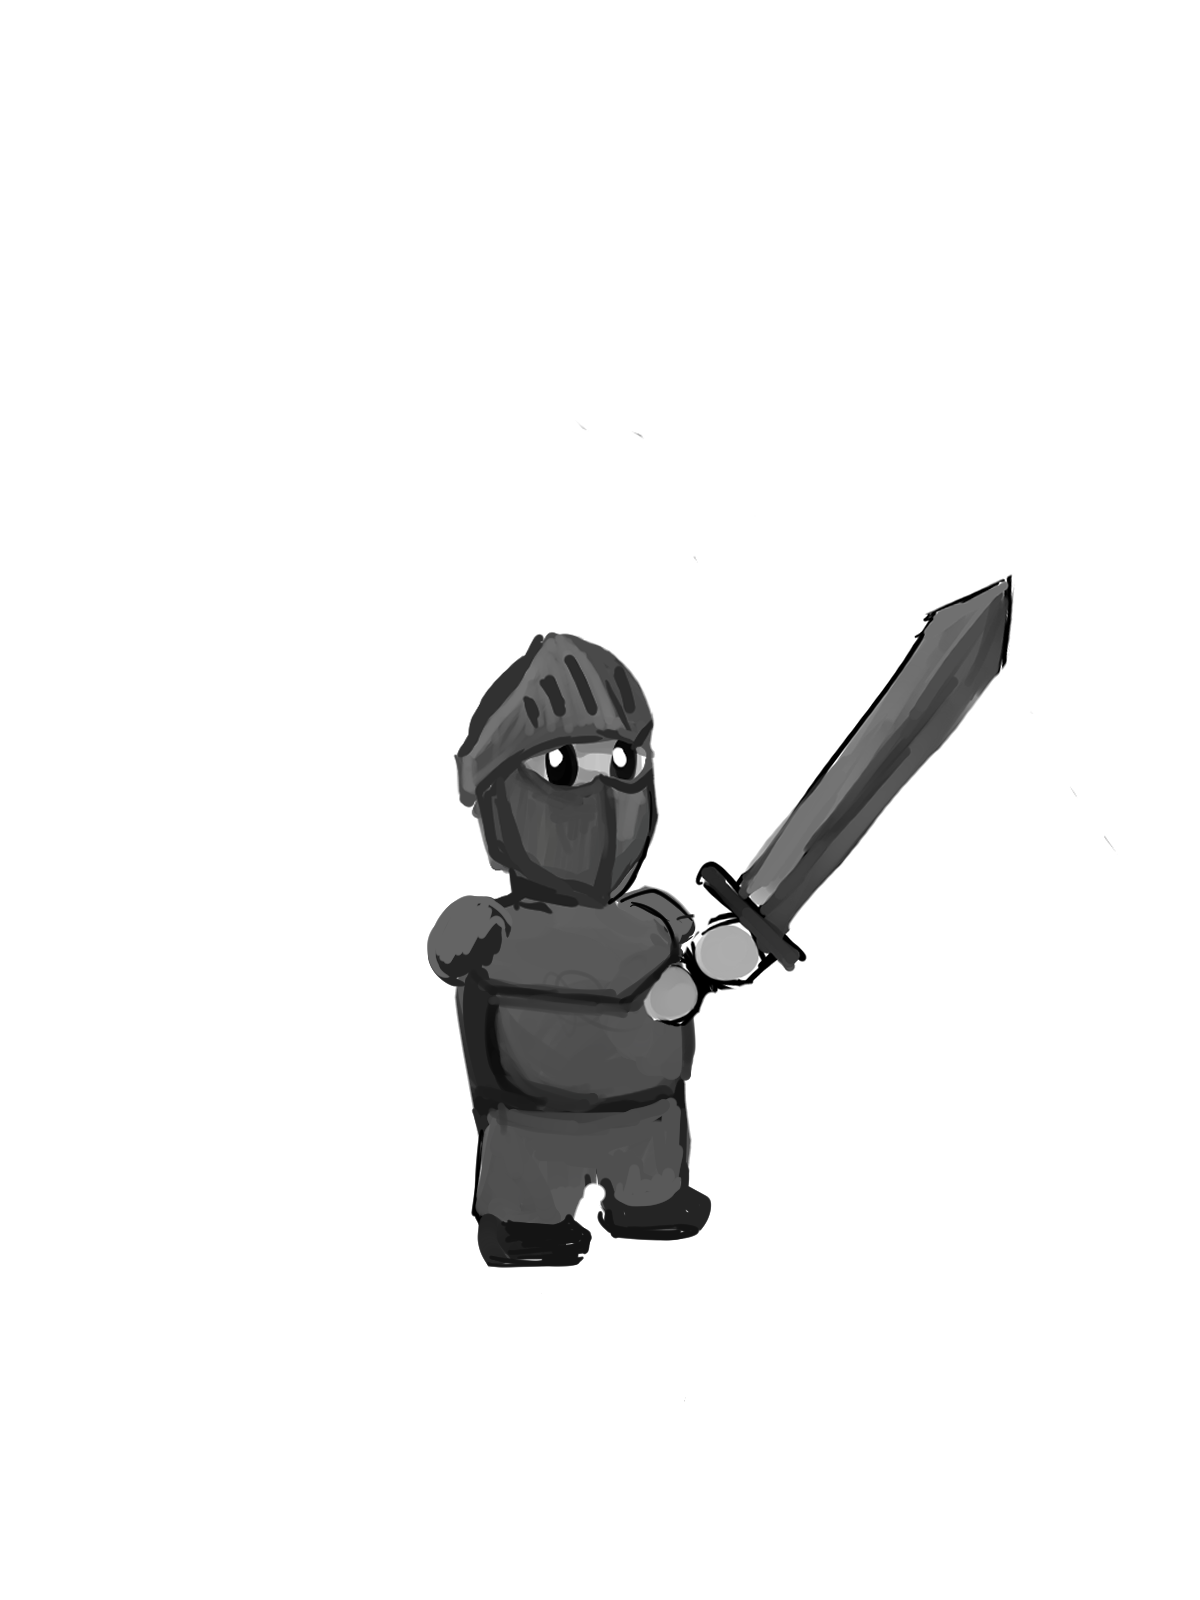
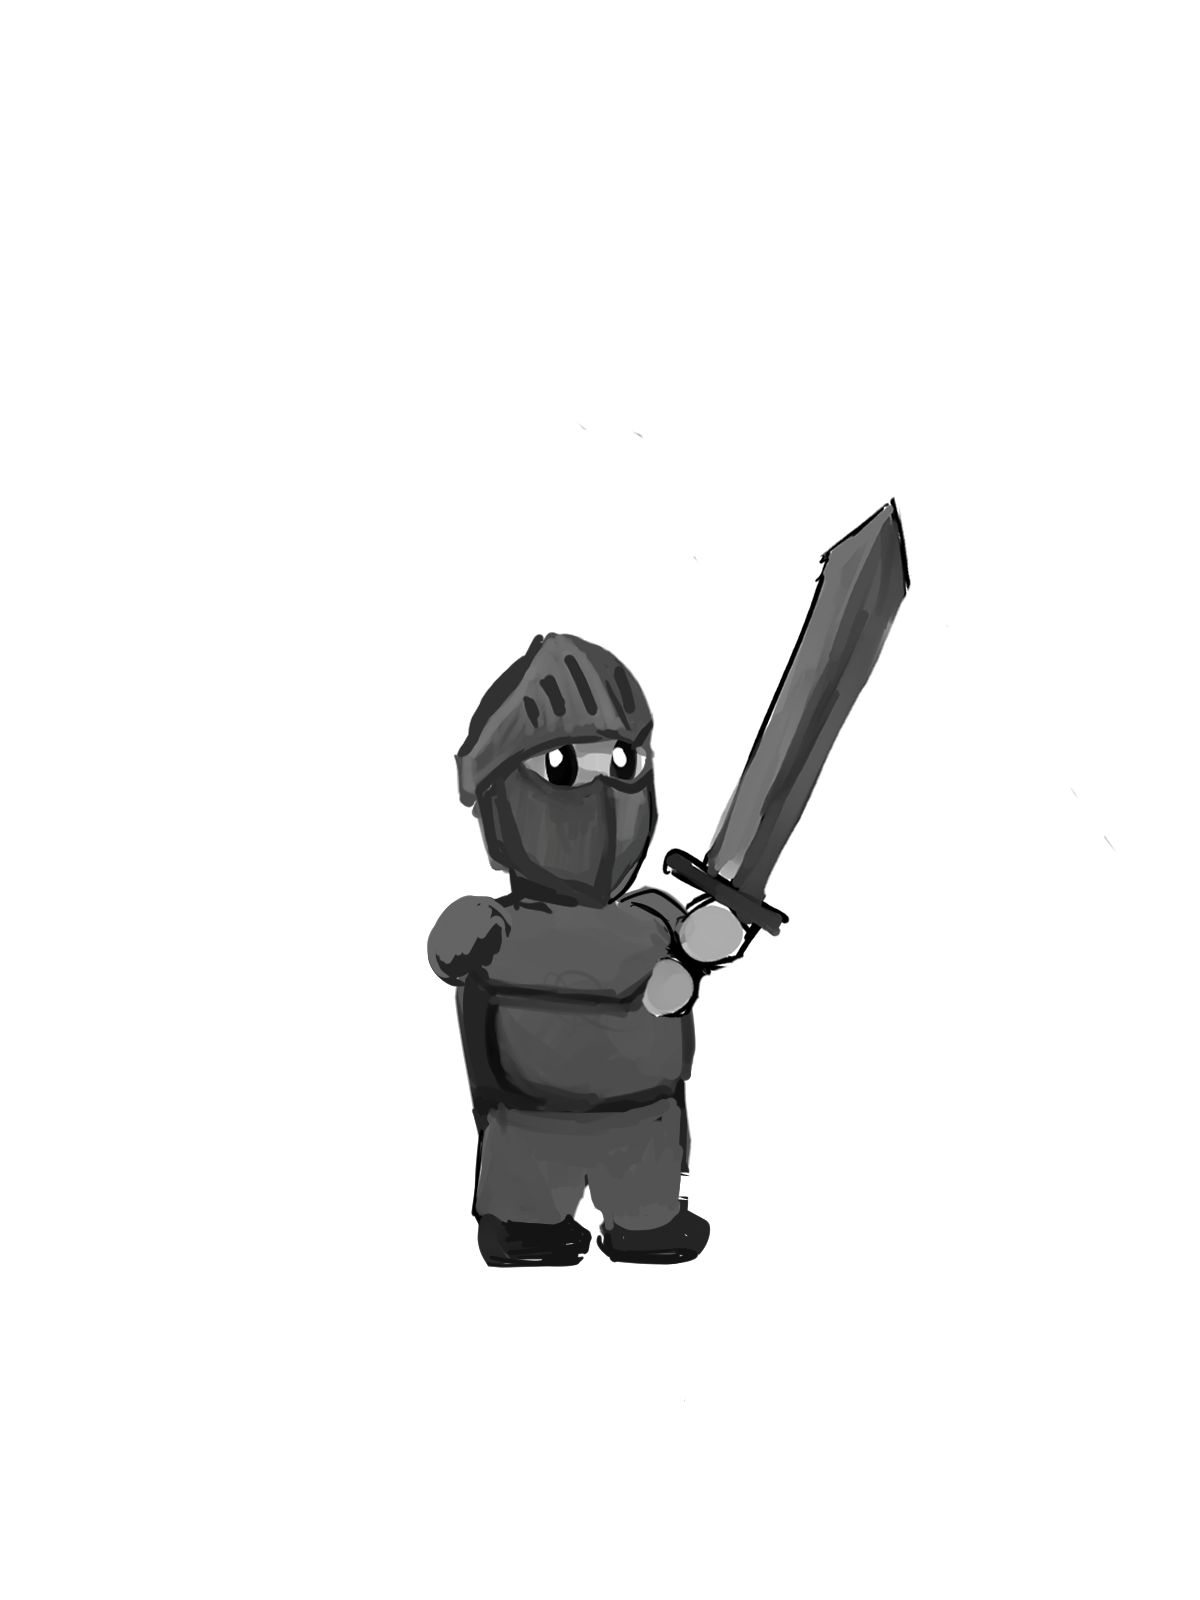
Sprite Update/ Atk input
Spirte Update
Atk Input and Anim

Changed region(s): [[0.5242, 0.3125, 0.8633, 0.6562], [0.4933, 0.7188, 0.6167, 0.8125]]

diff --git a/src/Main.cpp b/src/Main.cpp
@@ -1,62 +1,161 @@
 # include <Siv3D.hpp> // Siv3D v0.6.14
 
-using App = SceneManager<String>;
-
-
-class Title : public App::Scene {
-	
-};
-
-
 void Main()
 {
+	// 背景の色を設定する | Set the background color
 	Scene::SetBackground(ColorF{ 0.6, 0.8, 0.7 });
 
-	double time;
+	// 画像ファイルからテクスチャを作成する | Create a texture from an image file
+	const Texture kingTexture{ U"Assets/king.png" };
+	const Texture knightTexture{ U"Assets/knight.png"};
+	const Texture knightAtkTexture{ U"Assets/knightAtk.png"};
 
-
+	// 絵文字からテクスチャを作成する | Create a texture from an emoji
 	const Texture emoji{ U"🦖"_emoji };
 
-	double speed = 200.0;
+	// 太文字のフォントを作成する | Create a bold font with MSDF method
+	const Font font{ FontMethod::MSDF, 48, Typeface::Bold };
+
+	// テキストに含まれる絵文字のためのフォントを作成し、font に追加する | Create a font for emojis in text and add it to font as a fallback
+	const Font emojiFont{ 48, Typeface::ColorEmoji };
+	font.addFallback(emojiFont);
+
+	// ボタンを押した回数 | Number of button presses
+	int32 count = 0;
+
+	// チェックボックスの状態 | Checkbox state
+	bool checked = false;
+
+	// プレイヤーの移動スピード | Player's movement speed
+	double speed = 280.0;
 
 	// プレイヤーの X 座標 | Player's X position
 	double playerPosX = 400;
-	double playerPosY = 400;
 
+	// プレイヤーが右を向いているか | Whether player is facing right
 	bool isPlayerFacingRight = true;
+
+
+	Vec2 playerPos = Vec2(400, 300); // Starting position
+	Vec2 targetPos = playerPos;      // Destination
+	bool facing = false;
+
+	Vec2 kingPos = Vec2(150, 250); // King starting position
+
+	int atkAnimInterval = 0;
 
 	while (System::Update())
 	{
-		if (KeyA.pressed())
+		// テクスチャを描く | Draw the texture
+		
+
+		// // テキストを描く | Draw text
+		// font(U"Hello, Siv3D!🎮").draw(64, Vec2{ 20, 340 }, ColorF{ 0.2, 0.4, 0.8 });
+
+		// // 指定した範囲内にテキストを描く | Draw text within a specified area
+		// font(U"Siv3D (シブスリーディー) は、ゲームやアプリを楽しく簡単な C++ コードで開発できるフレームワークです。")
+		// 	.draw(18, Rect{ 20, 430, 480, 200 }, Palette::Black);
+
+		// // 長方形を描く | Draw a rectangle
+		// Rect{ 540, 20, 80, 80 }.draw();
+
+		// // 角丸長方形を描く | Draw a rounded rectangle
+		// RoundRect{ 680, 20, 80, 200, 20 }.draw(ColorF{ 0.0, 0.4, 0.6 });
+
+		// // 円を描く | Draw a circle
+		// Circle{ 580, 180, 40 }.draw(Palette::Seagreen);
+
+		// // 矢印を描く | Draw an arrow
+		// Line{ 540, 330, 760, 260 }.drawArrow(8, SizeF{ 20, 20 }, ColorF{ 0.4 });
+
+		// // 半透明の円を描く | Draw a semi-transparent circle
+		// Circle{ Cursor::Pos(), 40 }.draw(ColorF{ 1.0, 0.0, 0.0, 0.5 });
+
+		// // ボタン | Button
+		// if (SimpleGUI::Button(U"count: {}"_fmt(count), Vec2{ 520, 370 }, 120, (checked == false)))
+		// {
+		// 	// カウントを増やす | Increase the count
+		// 	++count;
+		// }
+
+		// // チェックボックス | Checkbox
+		// SimpleGUI::CheckBox(checked, U"Lock \U000F033E", Vec2{ 660, 370 }, 120);
+
+		// // スライダー | Slider
+		// SimpleGUI::Slider(U"speed: {:.1f}"_fmt(speed), speed, 100, 400, Vec2{ 520, 420 }, 140, 120);
+
+		// // 左キーが押されていたら | If left key is pressed
+		// if (KeyLeft.pressed())
+		// {
+		// 	// プレイヤーが左に移動する | Player moves left
+		// 	playerPosX = Max((playerPosX - speed * Scene::DeltaTime()), 60.0);
+		// 	isPlayerFacingRight = false;
+		// }
+
+		// // 右キーが押されていたら | If right key is pressed
+		// if (KeyRight.pressed())
+		// {
+		// 	// プレイヤーが右に移動する | Player moves right
+		// 	playerPosX = Min((playerPosX + speed * Scene::DeltaTime()), 740.0);
+		// 	isPlayerFacingRight = true;
+		// }
+
+		// // プレイヤーを描く | Draw the player
+		// emoji.scaled(0.75).mirrored(isPlayerFacingRight).drawAt(playerPosX, 540);
+
+		
+		kingTexture.scaled(0.2).drawAt(kingPos);
+		
+		
+		
+		if (MouseR.down())
 		{
-			// プレイヤーが左に移動する | Player moves left
-			playerPosX = Max((playerPosX - speed * Scene::DeltaTime()), 60.0);
-			isPlayerFacingRight = false;
+			targetPos = Cursor::PosF();
 		}
 
-		if (KeyW.pressed())
+		Vec2 direction = (targetPos - playerPos).normalized();
+		double distance = (targetPos - playerPos).length();
+
+		Circle{ targetPos, 5 }.draw(Palette::Red);
+
+		if (distance > 1.0) // Avoid jitter
 		{
-			// プレイヤーが左に移動する | Player moves left
-			playerPosY = Max((playerPosY - speed * Scene::DeltaTime()), 60.0);
+			playerPos += direction * speed * Scene::DeltaTime();
+		} else {
+			playerPos = targetPos;
 		}
 
-		if (KeyS.pressed())
+		// Avoid flip when player is supposed face left
+		if (targetPos.x - playerPos.x > 0.01 * speed || targetPos.x - playerPos.x < -0.01 * speed) 
 		{
-			// プレイヤーが左に移動する | Player moves left
-			playerPosY = Min((playerPosY + speed * Scene::DeltaTime()), 740.0);
+			facing = targetPos.x < playerPos.x;
 		}
 
-		// 右キーが押されていたら | If right key is pressed
-		if (KeyD.pressed())
-		{
-			// プレイヤーが右に移動する | Player moves right
-			playerPosX = Min((playerPosX + speed * Scene::DeltaTime()), 740.0);
-			isPlayerFacingRight = true;
-		}
+		//Circle{ playerPos, 20 }.draw(Palette::Skyblue);
 
-		// プレイヤーを描く | Draw the player
-		emoji.scaled(0.75).mirrored(isPlayerFacingRight).drawAt(playerPosX, playerPosY);
+		if (KeySpace.down()) {
+			atkAnimInterval = 8;
+			knightAtkTexture.scaled(0.2).mirrored(facing).drawAt(playerPos);
+		}
+		else if (atkAnimInterval > 0){
+			atkAnimInterval-= Scene::DeltaTime() * 0.01;
+			knightAtkTexture.scaled(0.2).mirrored(facing).drawAt(playerPos);
+		}
+		else {
+			knightTexture.scaled(0.2).mirrored(facing).drawAt(playerPos);
+		}
+		
+		
+		if (kingPos.y > playerPos.y) {
+			kingTexture.scaled(0.2).drawAt(kingPos);
+		}
+		
+
+
 	}
+
+
+
 }
 
 //
